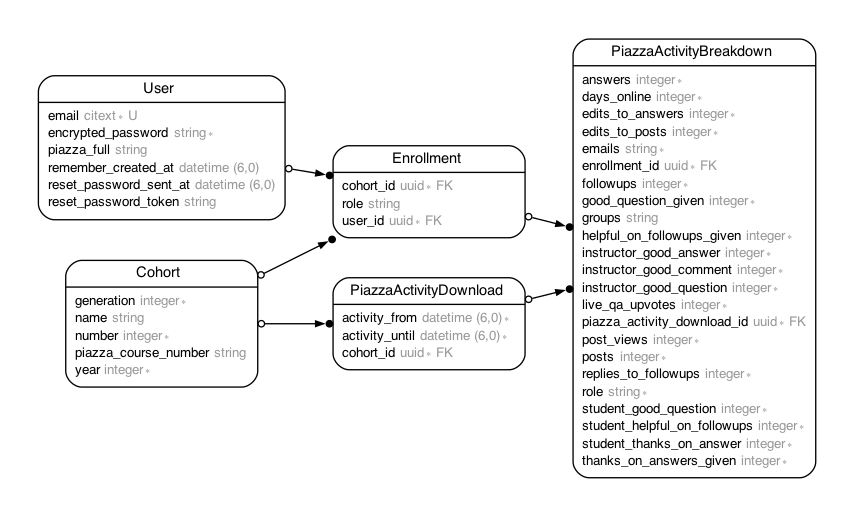
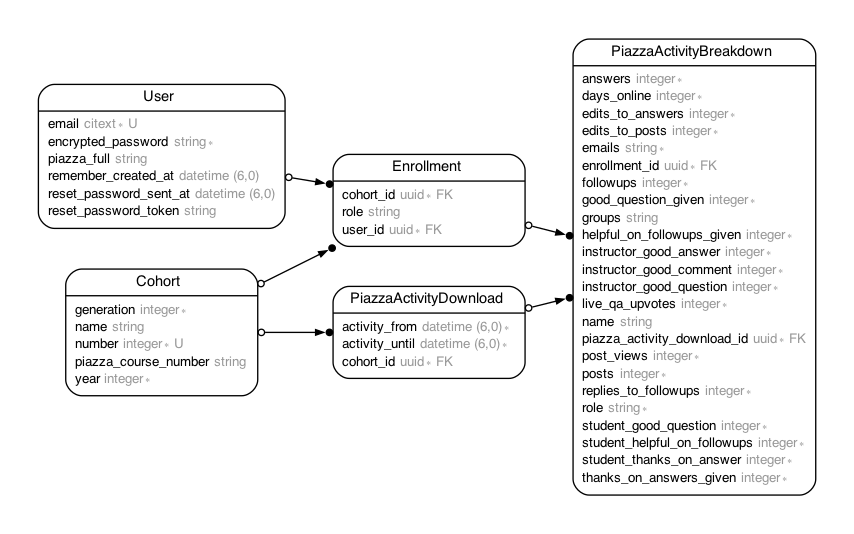
Playing around with ingesting Piazza

diff --git a/db/seeds.rb b/db/seeds.rb
@@ -5,3 +5,26 @@
 #
 #   movies = Movie.create([{ name: "Star Wars" }, { name: "Lord of the Rings" }])
 #   Character.create(name: "Luke", movie: movies.first)
+
+Cohort.create(
+  [
+    {
+      year: 2022,
+      generation: 1,
+      number: 1,
+      name: "The Pioneers"
+    },
+    {
+      year: 2023,
+      generation: 1,
+      number: 1,
+      name: "Hash Rockets"
+    },
+    {
+      year: 2023,
+      generation: 2,
+      number: 1,
+      name: "Fullstack Pancakes"
+    }
+  ]
+)

diff --git a/app/models/piazza_activity_breakdown.rb b/app/models/piazza_activity_breakdown.rb
@@ -16,6 +16,7 @@
 #  instructor_good_comment      :integer          not null
 #  instructor_good_question     :integer          not null
 #  live_qa_upvotes              :integer          not null
+#  name                         :string
 #  post_views                   :integer          not null
 #  posts                        :integer          not null
 #  replies_to_followups         :integer          not null

diff --git a/spec/models/piazza_activity_breakdown_spec.rb b/spec/models/piazza_activity_breakdown_spec.rb
@@ -16,6 +16,7 @@
 #  instructor_good_comment      :integer          not null
 #  instructor_good_question     :integer          not null
 #  live_qa_upvotes              :integer          not null
+#  name                         :string
 #  post_views                   :integer          not null
 #  posts                        :integer          not null
 #  replies_to_followups         :integer          not null

diff --git a/db/migrate/20230310174420_create_piazza_activity_breakdowns.rb b/db/migrate/20230310174420_create_piazza_activity_breakdowns.rb
@@ -2,6 +2,7 @@ class CreatePiazzaActivityBreakdowns < ActiveRecord::Migration[7.0]
   def change
     create_table :piazza_activity_breakdowns, id: :uuid do |t|
       t.references :enrollment, null: false, foreign_key: true, type: :uuid
+      t.string :name
       t.string :emails, null: false
       t.string :role, null: false
       t.string :groups

diff --git a/db/schema.rb b/db/schema.rb
@@ -38,6 +38,7 @@ ActiveRecord::Schema[7.0].define(version: 2023_03_10_174420) do
 
   create_table "piazza_activity_breakdowns", id: :uuid, default: -> { "gen_random_uuid()" }, force: :cascade do |t|
     t.uuid "enrollment_id", null: false
+    t.string "name"
     t.string "emails", null: false
     t.string "role", null: false
     t.string "groups"

diff --git a/app/models/piazza_activity_download.rb b/app/models/piazza_activity_download.rb
@@ -23,5 +23,7 @@ class PiazzaActivityDownload < ApplicationRecord
   has_many :piazza_activity_breakdowns, dependent: :destroy
 
   validates :activity_from, presence: true
-  validates :activity_until, presence: true
+  validates :activity_until,
+    presence: true,
+    uniqueness: {scope: [:activity_from, :cohort]}
 end
